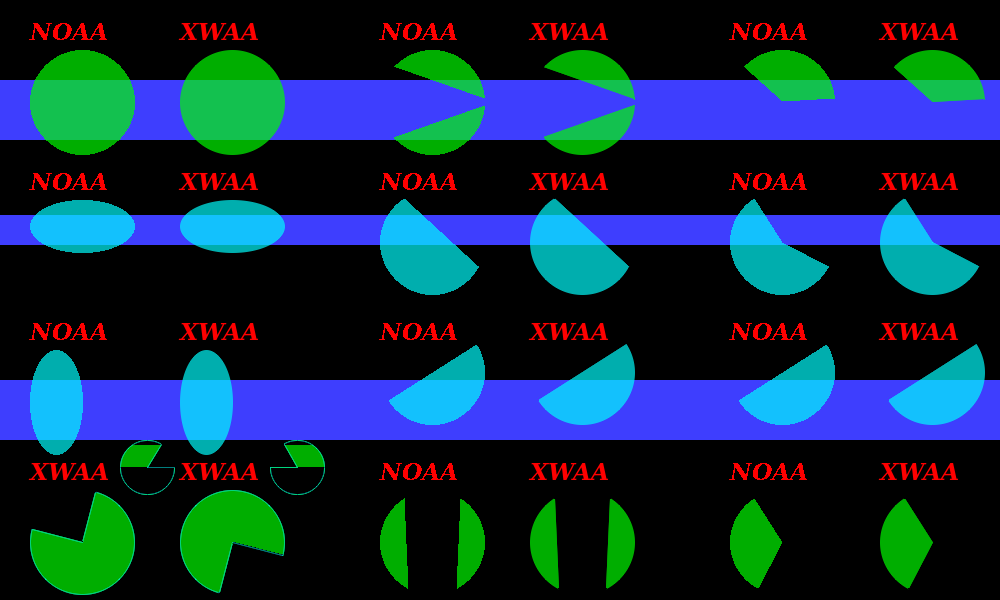
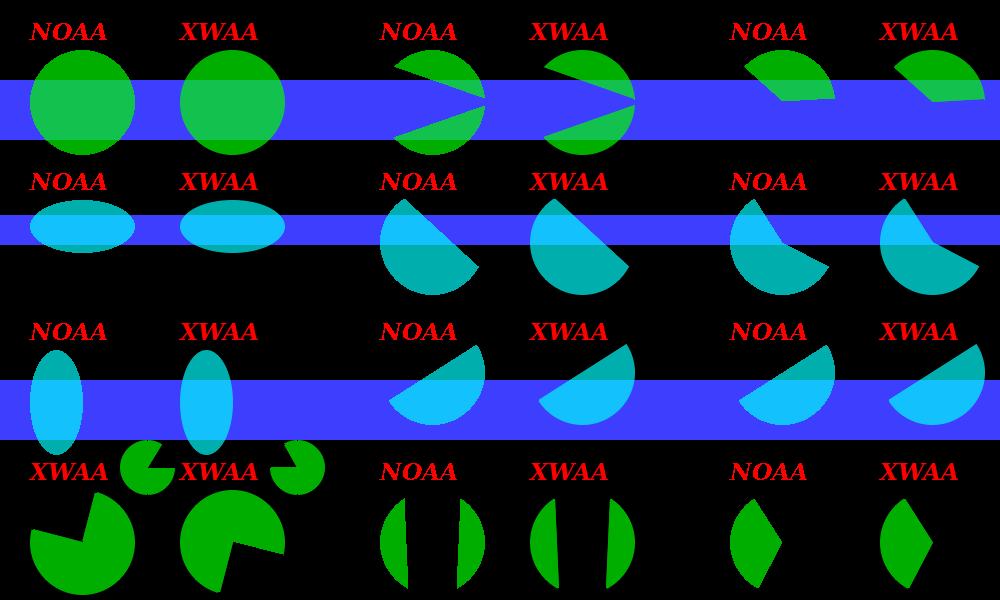
Working on fillArc - pie mode

diff --git a/src/Pt-Gfx/ImagePainter2_Arc.cpp b/src/Pt-Gfx/ImagePainter2_Arc.cpp
@@ -404,13 +404,64 @@ void ImagePainter2::arcUtil_cropAndStoreScanlineForChord(Scanlines& scanlines, c
 
 void ImagePainter2::arcUtil_genScanlinesForPie(Scanlines& scanlines1, Scanlines& scanlines2, const FilledArcInfo& fai, const XWLineData& xwLine1, const XWLineData& xwLine2)
 {
-    // Check for a horizontal "v-shape"
-
     // Find the line's minimum and maximum Y coordinates
-    Pt::int32_t lineMinY, lineMaxY;
+    Pt::int32_t lineMinY = fai.minY;
+    Pt::int32_t lineMaxY = fai.minY + fai.radY + fai.radY;
 
-    lineMinY = std::min(xwLine1.points.begin ()->first, xwLine2.points.begin ()->first);
-    lineMaxY = std::max(xwLine1.points.rbegin()->first, xwLine2.points.rbegin()->first);
+    if( (xwLine1.faceT && xwLine2.faceB) || (xwLine1.faceB && xwLine2.faceT) ) {
+        Pt::int32_t y1avg = (xwLine1.y1 + xwLine1.y2) / 2;
+        Pt::int32_t y2avg = (xwLine2.y1 + xwLine2.y2) / 2;
+        if(y1avg < y2avg) { // The first line is on lower Y coordinate
+            if(xwLine1.faceT) {
+                const Pt::int32_t cy = std::min(xwLine1.y1, xwLine1.y2);
+                if(lineMinY < cy) lineMinY = cy;
+            }
+            if(xwLine2.faceB) {
+                const Pt::int32_t cy = std::max(xwLine2.y1, xwLine2.y2);
+                if(lineMaxY > cy) lineMaxY = cy;
+            }
+        }
+        else { // The second line is on lower Y coordinate
+            if(xwLine1.faceB) {
+                const Pt::int32_t cy = std::max(xwLine1.y1, xwLine1.y2);
+                if(lineMaxY > cy) lineMaxY = cy;
+            }
+            if(xwLine2.faceT) {
+                const Pt::int32_t cy = std::min(xwLine2.y1, xwLine2.y2);
+                if(lineMinY < cy) lineMinY = cy;
+            }
+        }
+    }
+    else {
+        if(xwLine1.faceT && xwLine2.faceT) {
+            const Pt::int32_t cy1 = std::min(xwLine1.y1, xwLine1.y2);
+            const Pt::int32_t cy2 = std::min(xwLine2.y1, xwLine2.y2);
+            const Pt::int32_t cy  = std::min(cy1, cy2);
+            if(lineMinY < cy) lineMinY = cy;
+        }
+        else if(xwLine1.faceT) {
+            const Pt::int32_t cy = std::min(xwLine1.y1, xwLine1.y2);
+            if(lineMinY < cy) lineMinY = cy;
+        }
+        else if(xwLine2.faceT) {
+            const Pt::int32_t cy = std::min(xwLine2.y1, xwLine2.y2);
+            if(lineMinY < cy) lineMinY = cy;
+        }
+        if(xwLine1.faceB && xwLine2.faceB) {
+            const Pt::int32_t cy1 = std::max(xwLine1.y1, xwLine1.y2);
+            const Pt::int32_t cy2 = std::max(xwLine2.y1, xwLine2.y2);
+            const Pt::int32_t cy  = std::max(cy1, cy2);
+            if(lineMaxY > cy) lineMaxY = cy;
+        }
+        else if(xwLine1.faceB) {
+            const Pt::int32_t cy = std::max(xwLine1.y1, xwLine1.y2);
+            if(lineMaxY > cy) lineMaxY = cy;
+        }
+        else if(xwLine2.faceB) {
+            const Pt::int32_t cy = std::max(xwLine2.y1, xwLine2.y2);
+            if(lineMaxY > cy) lineMaxY = cy;
+        }
+    }
 
     //lprintf("%d %d\n", lineMinY, lineMaxY);
 

diff --git a/src/Pt-Gfx/tests/ImagePainterTest2_Draw_Filled.cpp b/src/Pt-Gfx/tests/ImagePainterTest2_Draw_Filled.cpp
@@ -305,22 +305,22 @@ static void testDrawFillEllipse(const char* title, Image& image, Painter& painte
         ip2->fillArc( PointF (30 , 50 + 440), SizeF(105, 105), -225 + 30, 45 + 30, ArcMode::Pie );
         ip2->fillArc( PointF (30 + 90 , 50 + 390), SizeF(55, 55), 30 + 30, 330 + 30, ArcMode::Pie );
         ip2->drawText( PointF(30 , 40 + 440), "XWAA" );
-
+        /*
         const CompositionMode cm = ip2->compositionMode();
-        ip2->setPen( Color::fromRgb8(0, 255, 255, 127) );
+        ip2->setPen( Color::fromRgb8(0, 255, 255, 127) ); // Draw some arc outlines for comparison
         ip2->setCompositionMode(CompositionMode::SourceOver);
         ip2->drawArc( PointF (30 + 90 , 50 + 390), SizeF(55, 55), 30 + 30, 330 + 30, ArcMode::Pie );
         ip2->drawArc( PointF (30 , 50 + 440), SizeF(105, 105), -225 + 30, 45 + 30, ArcMode::Pie );
         ip2->setCompositionMode(cm);
         ip2->setPen( Color::fromRgb8(255, 0, 0) );
+        //*/
 
-        //*
         ip2->setAntiAliasingMode(AntiAliasingMode::Fastest);
         ip2->fillArc( PointF (30 + 150, 50 + 440), SizeF(105, 105), -45 + 30, 225 + 30, ArcMode::Pie );
         ip2->fillArc( PointF (30 + 150 + 90, 50 + 390), SizeF(55, 55), -150 - 30, 150 - 30, ArcMode::Pie );
         ip2->drawText( PointF(30 + 150, 40 + 440), "XWAA" );
-
-        ip2->setPen( Color::fromRgb8(0, 255, 255, 127) );
+        /*
+        ip2->setPen( Color::fromRgb8(0, 255, 255, 127) ); // Draw some arc outlines for comparison
         ip2->setCompositionMode(CompositionMode::SourceOver);
         ip2->drawArc( PointF (30 + 150, 50 + 440), SizeF(105, 105), -45 + 30, 225 + 30, ArcMode::Pie );
         ip2->drawArc( PointF (30 + 150 + 90, 50 + 390), SizeF(55, 55), -150 - 30, 150 - 30, ArcMode::Pie );
